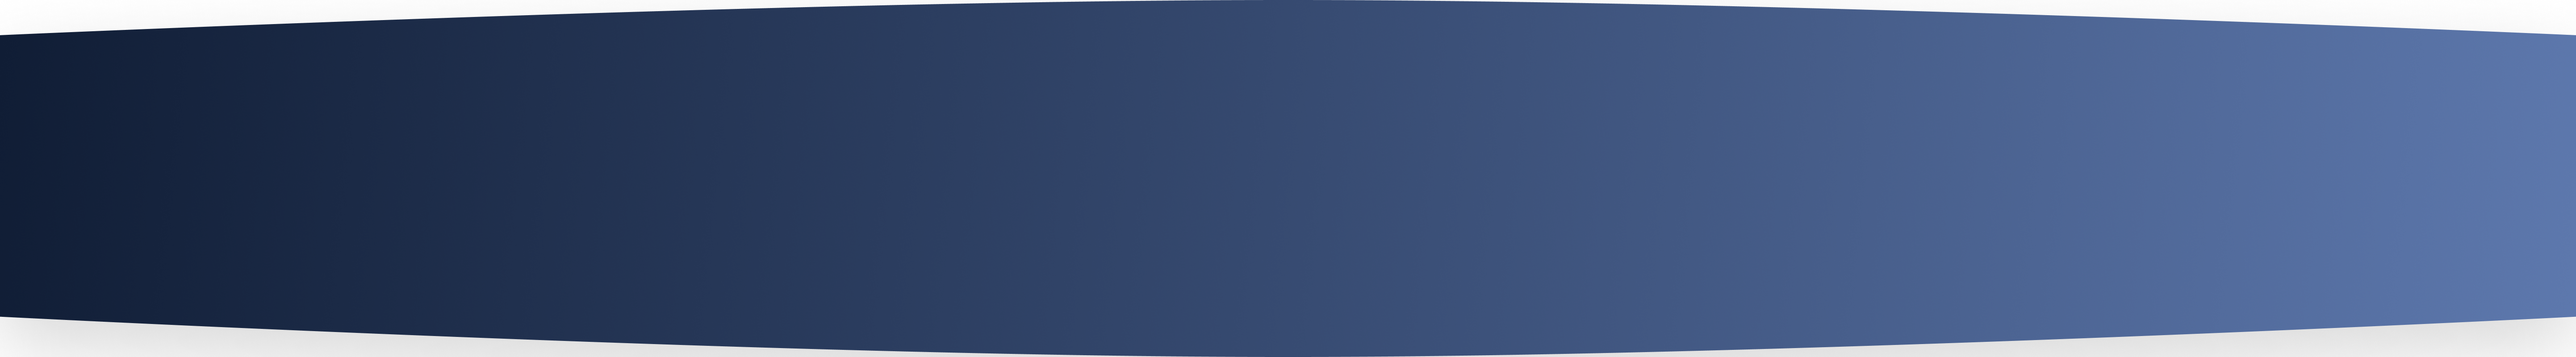
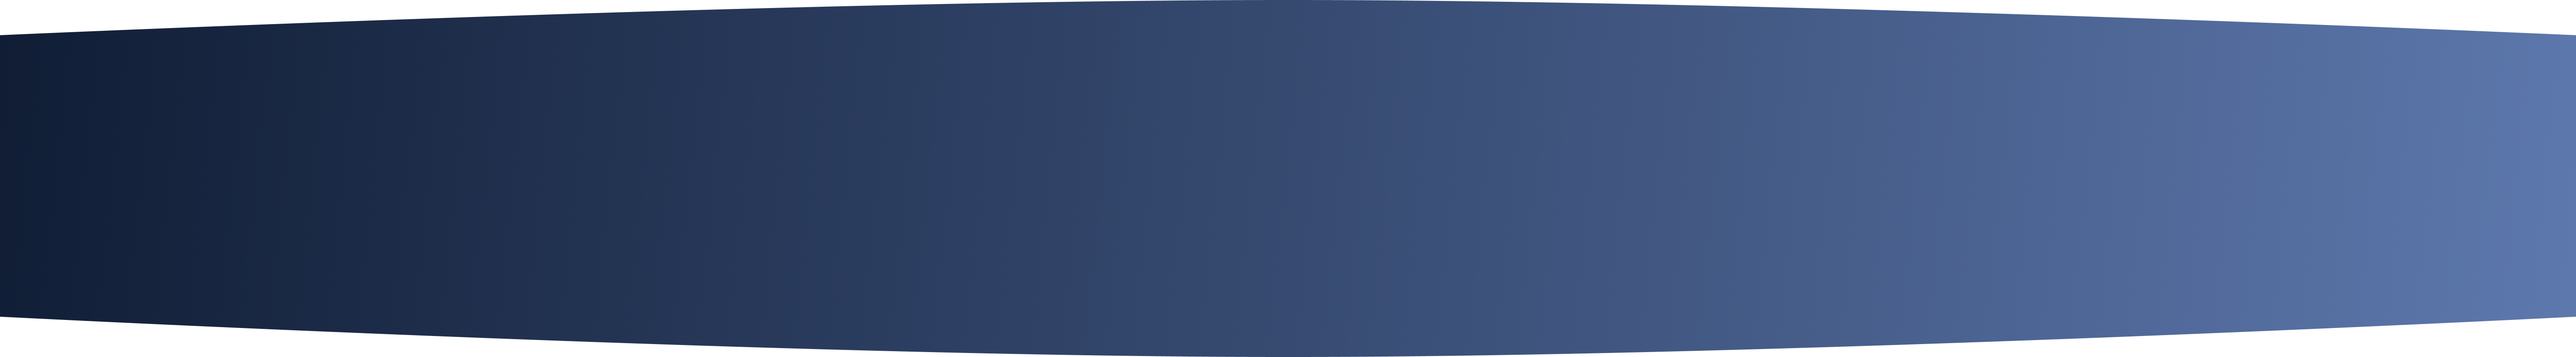
push before review

Changed region(s): [[0.5617, 0.875, 0.9986, 1.0], [0.0, 0.875, 0.4369, 1.0]]

diff --git a/presentiel.html b/presentiel.html
@@ -26,7 +26,8 @@
       </select>
     </div>
     <h1 class="header__title">Presentiel</h1>
-    <p class="header__text">L’ensemble de nos interventions en présentiel sont construites et réalisées sur mesure, en prenant en compte votre environnement, votre contexte mais également vos enjeux. Notre méthode pédagogique s’appuie sur vos enjeux afin de vous délivrer des leviers pratiques à fort impact</p>
+    <p class="header__text">L’ensemble de nos interventions en présentiel sont construites et réalisées sur mesure, en prenant en compte votre environnement, votre contexte mais également vos enjeux. Notre méthode pédagogique s’appuie sur vos enjeux
+      afin de vous délivrer des leviers pratiques à fort impact</p>
     <h3 class="method__title">Notre méthode</h3>
     <div class="method">
       <div class="method__group">
@@ -48,12 +49,16 @@
   </header>
 
   <main>
+    <div class="help">
+      <p class="help__content">?</p>
+    </div>
     <section class="presentiel__coaching">
       <h3 class="coaching__title">Nos formations</h3>
-      <p class="coaching__text">L’ensemble de nos formations est adapté à votre contexte, à vos enjeux collectifs et individuels. Nous adaptons et créons des programmes spécifiques en fonction du nombres de collaborateurs à former mais également en fonction du temps et de lieu.</p>
+      <p class="coaching__text">L’ensemble de nos formations est adapté à votre contexte, à vos enjeux collectifs et individuels. Nous adaptons et créons des programmes spécifiques en fonction du nombres de collaborateurs à former mais également en
+        fonction du temps et de lieu.</p>
       <p class="coaching__text">En tant qu’organisme de formations agréé et datadocké, nos formations sont ouvertes à la prise en charge par votre OPCA.</p>
     </section>
-    <img class="coaching__picture" src="./assets/img/coaching_michelin.png" alt= "photo de groupe équipe Michelin">
+    <img class="coaching__picture" src="./assets/img/coaching_michelin.png" alt="photo de groupe équipe Michelin">
     <h3 class="header__number">Nos chiffres</h3>
     <section class="numbers">
       <div class="number">
@@ -133,7 +138,48 @@
       </div>
     </section>
     <section class="begin">
-
+      <button class="begin__button">On commence ?</button>
+    </section>
+    <section class="advice">
+      <h2 class="advice__title">Conseils & Études</h2>
+      <p class="advice__text">Une approche précise et adaptée à vos besoins de transformations. Notre équipe vous accompagne dans vos projets de grande envergure pour muter ou adapter de nouvelles solutions plus impactantes à l’aide de nos
+        expertises.</p>
+      <p class="advice__text">Nous utilisons une méthode protocolée scientifiquement afin d’analyser, rigoureusement vos enjeux et ainsi vous délivrer des solutions impactantes et mesurables.</p>
+    </section>
+    <img src="./assets/img/advice.png" alt="" class="advice__picture">
+    <section class="numbers">
+      <div class="number">
+        <h4 class="number__title">100%</h4>
+        <p class="number__text">docteurs chercheurs</p>
+        <p class="number__text">neuroscientifiques internationaux</p>
+      </div>
+      <div class="number">
+        <h4 class="number__title">+20</h4>
+        <p class="number__text">enrteprises accompagnées</p>
+      </div>
+      <div class="number">
+        <h4 class="number__title">+10</h4>
+        <p class="number__text">Étude d'impact</p>
+      </div>
+    </section>
+    <section class="home__customer--nsh">
+      <h5 class="customer__title">Nos solutions sont déployées auprès de...</h5>
+      <div class="customer__logo">
+        <span><img class="logo logo--sncf" src="./assets/img/logo_sncf.png" alt="logo SNCF"></span>
+        <span><img class="logo logo--michelin" src="./assets/img/logo_michelin.png" alt="logo Michelin"></span>
+        <span><img class="logo logo--bayard" src="./assets/img/logo_bayard.png" alt="logo Bayard"></span>
+        <span><img class="logo logo--dec" src="./assets/img/logo_dec.png" alt="logo DEC"></span>
+        <span><img class="logo logo--emLyon" src="./assets/img/logo_emLyon.png" alt="logo EM LYON"></span>
+        <span><img class="logo logo--cfpc" src="./assets/img/logo_cfpc.png" alt="logo CFPC"></span>
+        <span><img class="logo logo--mairieParis" src="./assets/img/logo_mairieParis.png" alt="logo de la mairie de Paris"></span>
+        <span><img class="logo logo--iesa" src="./assets/img/logo_iesa.png" alt="logo IESA"></span>
+        <span><img class="logo logo--learnSpace" src="./assets/img/logo_learnSpace.png" alt="logo learnSpace"></span>
+        <span><img class="logo logo--bambin" src="./assets/img/logo_bambin.png" alt="logo Parler Bambin"></span>
+      </div>
+    </section>
+    <section class="home__contact">
+      <h4 class="contact__title">Une question ? Nos experts sont à votre écoute</h4>
+      <button class="contact__boutton">Nous contacter</button>
     </section>
   </main>
 </body>

diff --git a/src/css/presentiel.css b/src/css/presentiel.css
@@ -173,6 +173,10 @@
   letter-spacing: 0.1rem;
 }
 
+/* .innovation__item::before {
+
+} */
+
 .innovation__number {
   font-size: 18px;
   font-weight: lighter;
@@ -427,4 +431,50 @@
   background-image: url('../../assets/img/background_blue_arc.png');
   background-size: 100vw 32vh;
   background-repeat: no-repeat;
+  margin-top: 11vh;
+  display: flex;
+  justify-content: center;
+  align-items: center;
+}
+
+.begin__button {
+  background-color: white;
+  width: 27vw;
+  height: 8vh;
+  border: solid 2px;
+  font-size: 28px;
+  font-weight: bolder;
+  border-image-source: linear-gradient(160deg, rgb(253, 216, 106), rgb(253, 216, 106), rgb(176, 220, 122), rgb(51, 249, 240), rgb(96, 157, 229), rgb(251, 18, 190), rgb(251, 18, 190));
+  border-image-slice: 1;
+}
+
+.advice {
+  margin-top: 25vh;
+  margin-left: 7vw;
+  float: left;
+}
+
+.advice__title {
+  font-size: 38px;
+  font-weight: bold;
+}
+
+.advice__title {
+  font-size: 38px;
+  font-weight: bold;
+}
+
+.advice__text {
+  font-size: 22px;
+  font-weight: lighter;
+  line-height: 2rem;
+  margin-top: 5vh;
+  width: 50vw;
+}
+
+.advice__picture {
+  height: 75vh;
+  float: right;
+  margin-top: 10vh;
+  margin-bottom: 15vh;
 }

diff --git a/src/css/home.css b/src/css/home.css
@@ -324,6 +324,11 @@ html {
   box-shadow: inset 0px 3px 3px -3px #979797;
 }
 
+.home__customer--nsh {
+  width: 100vw;
+  height: 90vh;
+}
+
 .customer__title {
   font-size: 35px;
   font-weight: bolder;
